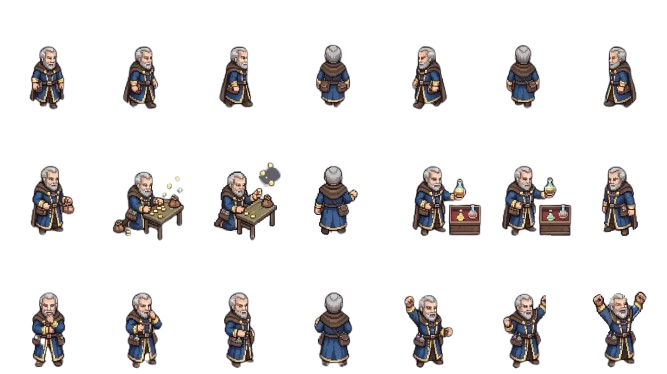
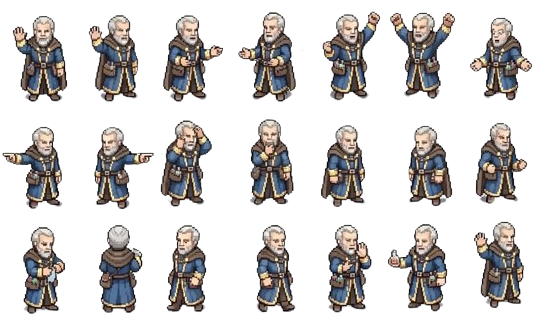
v0.0.080 correcciones frames de Borin

diff --git a/locations/market/market.js b/locations/market/market.js
@@ -94,42 +94,133 @@ let borinAnimacion = null;
 // =======================================
 // BORIN — ACCIONES
 // =======================================
+// =======================================
+// BORIN — ACCIONES
+// =======================================
+
 const BORIN_ACCIONES = {
-    quieto: {
-        fila: 1,
+
+     quieto: {
+        fila: 2,
         frames: [0],
         velocidad: 1000,
         repetir: false
     },
-    // Fila 0 — movimiento
-    caminar: {
+
+    // ===================================
+    // FILA 1
+    // ===================================
+
+    saludar: {
         fila: 0,
-        frames: [0, 1, 2, 3, 4, 5, 6],
-        velocidad: 400,
-        repetir: true
+        frames: [0, 1],
+        velocidad: 350,
+        repetir: false
     },
 
-    // Fila 1 — trabajando como mercader
-    mercader: {
-        fila: 1,
-        frames: [0, 1, 2, 3, 4, 5, 6],
-        velocidad: 400,
-        repetir: true
-    },
-
-    // Fila 2 — hablando
     hablar: {
-        fila: 2,
-        frames: [0, 1, 2, 3],
-        velocidad: 250,
+        fila: 0,
+        frames: [2, 3],
+        velocidad: 600,
         repetir: true
     },
 
-    // Fila 2 — celebración
     celebrar: {
+        fila: 0,
+        frames: [4, 5],
+        velocidad: 300,
+        repetir: true
+    },
+
+    sorprendido: {
+        fila: 0,
+        frames: [6],
+        velocidad: 500,
+        repetir: false
+    },
+
+    // ===================================
+    // FILA 2
+    // ===================================
+
+    señalarIzq: {
+        fila: 1,
+        frames: [0],
+        velocidad: 500,
+        repetir: false
+    },
+
+    señalarDer: {
+        fila: 1,
+        frames: [1],
+        velocidad: 500,
+        repetir: false
+    },
+
+    pensar: {
+        fila: 1,
+        frames: [2, 3],
+        velocidad: 500,
+        repetir: true
+    },
+
+    triste: {
+        fila: 1,
+        frames: [4],
+        velocidad: 500,
+        repetir: false
+    },
+
+    llorando: {
+        fila: 1,
+        frames: [5],
+        velocidad: 500,
+        repetir: false
+    },
+
+    enojado: {
+        fila: 1,
+        frames: [6],
+        velocidad: 500,
+        repetir: false
+    },
+
+    // ===================================
+    // FILA 3
+    // ===================================
+
+    trabajando: {
         fila: 2,
-        frames: [4, 5, 6],
-        velocidad: 200,
+        frames: [0, 1],
+        velocidad: 500,
+        repetir: true
+    },
+
+    caminarIzq: {
+        fila: 2,
+        frames: [2],
+        velocidad: 500,
+        repetir: false
+    },
+
+    caminarDer: {
+        fila: 2,
+        frames: [3],
+        velocidad: 500,
+        repetir: false
+    },
+
+    ofrecer: {
+        fila: 2,
+        frames: [4, 5],
+        velocidad: 400,
+        repetir: false
+    },
+
+    despedida: {
+        fila: 2,
+        frames: [6],
+        velocidad: 500,
         repetir: false
     }
 
@@ -189,7 +280,7 @@ function cargarBorin(){
         // MERCADER TRABAJANDO
         // ===================================
 
-        animarBorin("quieto");
+        animarBorin("saludar");
 
     };
 
@@ -322,6 +413,7 @@ function mostrarFrameBorin(
 // VOLVER AL MAPA
 // =======================================
 function irAlMapaDesdeMercado(){
+    animarBorin("despedir");
     console.log("Saliendo del Mercado → Mapa");
     irA( "market", "map", mostrarMapaReino );
 }
@@ -455,7 +547,7 @@ function seleccionarItemMercado(nombre){
 // CONSEGUIR PRODUCTO
 // =======================================
 function conseguirProductoMercado(id){
-    animarBorin("hablar");
+    animarBorin("señalar");
     console.log(
         "🛒 CONSEGUIR PRODUCTO:",
         id
@@ -533,7 +625,7 @@ function conseguirProductoMercado(id){
 // RECHAZAR OFERTA
 // =======================================
 function rechazarOfertaMercado(id){
-    animarBorin("hablar");
+    animarBorin("señalar");
     console.log(
         "❌ OFERTA RECHAZADA:",
         id
@@ -601,7 +693,7 @@ function borinHablar(){
 // OFRECER OTRO ITEM
 // =======================================
 function ofrecerOtroItemMercado(){
-    animarBorin("hablar");
+    animarBorin("trabajando");
     console.log(
         "🔄 BORIN OFRECE OTRO ITEM"
     );
@@ -652,7 +744,7 @@ function ofrecerOtroItemMercado(){
 // CONFIRMAR ITEM DEL MERCADO
 // =======================================
 function confirmarItemMercado(id){
-    animarBorin("hablar");
+    animarBorin("sorprendido");
     console.log(
         "✅ ITEM CONFIRMADO:",
         id
@@ -698,9 +790,10 @@ function confirmarItemMercado(id){
         );
 
         const dialogo = obtenerDialogoBorin(
-            "sin_oquos"
+            "sin_oquos" 
+            
         );
-
+animarBorin("enojado");
         console.log(
             "🧙♂ BORIN:",
             dialogo
@@ -761,7 +854,7 @@ function confirmarItemMercado(id){
     const dialogo = obtenerDialogoBorin(
         "elegir_tipo_desafio"
     );
-
+animarBorin("hablar");
     console.log(
         "🧙♂ BORIN:",
         dialogo
@@ -817,7 +910,7 @@ function confirmarItemMercado(id){
 // BORIN — INDECISO
 // =======================================
 function indecisoMercado(){
-    animarBorin("hablar");
+    animarBorin("pensar");
     console.log(
         "🤔 JUGADOR INDECISO"
     );
@@ -881,7 +974,7 @@ function indecisoMercado(){
 // ELEGIR DESAFÍO — PREGUNTA
 // =======================================
 function elegirDesafioPregunta(id){
-    animarBorin("hablar");
+    animarBorin("ofrecer");
     console.log(
         "🧠 TIPO DE DESAFÍO: PREGUNTA",
         id
@@ -940,7 +1033,7 @@ function elegirDesafioPregunta(id){
 // ELEGIR DESAFÍO — ACCIÓN
 // =======================================
 function elegirDesafioAccion(id){
-    animarBorin("hablar");
+    animarBorin("pensar");
     console.log(
         "🎯 TIPO DE DESAFÍO: ACCIÓN",
         id
@@ -1043,7 +1136,7 @@ function elegirDesafioAccion(id){
 // COMPLETAR DESAFÍO
 // =======================================
 function completarDesafioMercado(desafioId, productoId){
-
+animarBorin("celebrar");
     console.log(
         "🎯 DESAFÍO COMPLETADO:",
         desafioId
@@ -1122,7 +1215,7 @@ function completarDesafioMercado(desafioId, productoId){
 // EFECTUAR COMPRA
 // =======================================
 function efectuarCompraMercado(){
-    // SIN animarBorin() todavía
+    animarBorin("ofrecer");
     console.log(
         "🪙 EFECTUANDO COMPRA"
     );
@@ -1249,7 +1342,7 @@ function efectuarCompraMercado(){
 
 }
 function mostrarDesafioPregunta(desafio, dialogo){
-     animarBorin("hablar");
+     animarBorin("pensar");
     console.log(
         "❓ MOSTRANDO PREGUNTA:",
         desafio
@@ -1324,7 +1417,7 @@ function responderDesafio(indice){
     // RESPUESTA INCORRECTA
     // ===================================
     if(indice !== desafioActual.respuesta_correcta){
-
+        animarBorin("enojado");
         console.log(
             "❌ RESPUESTA INCORRECTA:",
             desafioActual.id
@@ -1383,7 +1476,7 @@ function responderDesafio(indice){
     // ===================================
     // BORIN — COMPRA EXITOSA
     // ===================================
-
+animarBorin("celebrar");
     const dialogo = obtenerDialogoBorin(
         "compra_exitosa"
     );
@@ -1445,7 +1538,7 @@ function responderDesafio(indice){
 // VOLVER A ELEGIR PRODUCTO
 // =======================================
 function volverAElegirProducto(){
-    animarBorin("quieto");
+    animarBorin("señalar");
     console.log(
         "🔄 VOLVER A ELEGIR PRODUCTO"
     );
@@ -1488,7 +1581,7 @@ function volverAElegirProducto(){
 // SALIR DEL MERCADO
 // =======================================
 function salirDelMercado(){
-
+    animarBorin("despedir");
     console.log(
         "🚪 SALIR DEL MERCADO"
     );

diff --git a/locations/market/market.css b/locations/market/market.css
@@ -19,7 +19,7 @@
     position: absolute;
     /*BORIN EN EL CENTRO*/
     left: 50%;
-    top: 50%;
+    top: 60%;
     transform: translate(-50%, -50%);
     pointer-events: none;
     display: flex;
@@ -39,7 +39,7 @@
     background-position: 0 0;
     /*MUY IMPORTANTE: La hoja conserva sus dimensiones originales. No se deforma.*/
     flex-shrink: 0;
-    transform: scale(1);
+    transform: scale(1.2);
     transform-origin: center bottom;
 }
 /* =======================================

diff --git a/systems/config/version.js b/systems/config/version.js
@@ -1,3 +1,3 @@
-const VERSION = "v0.00.077";
+const VERSION = "v0.00.080";
 const BUILD = "06/08/2026";
 document.getElementById("version").textContent = VERSION;
